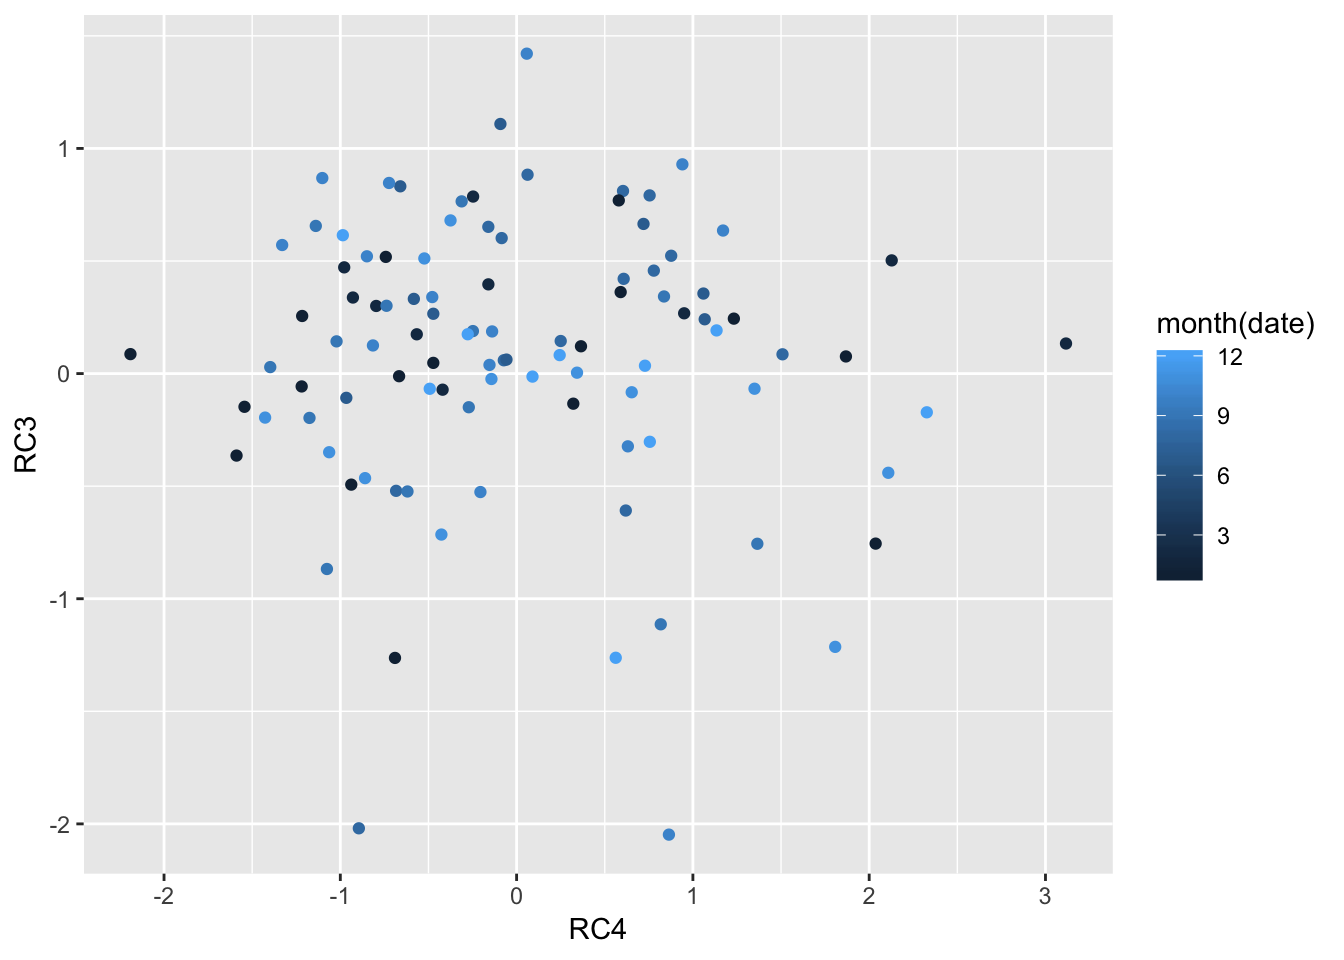
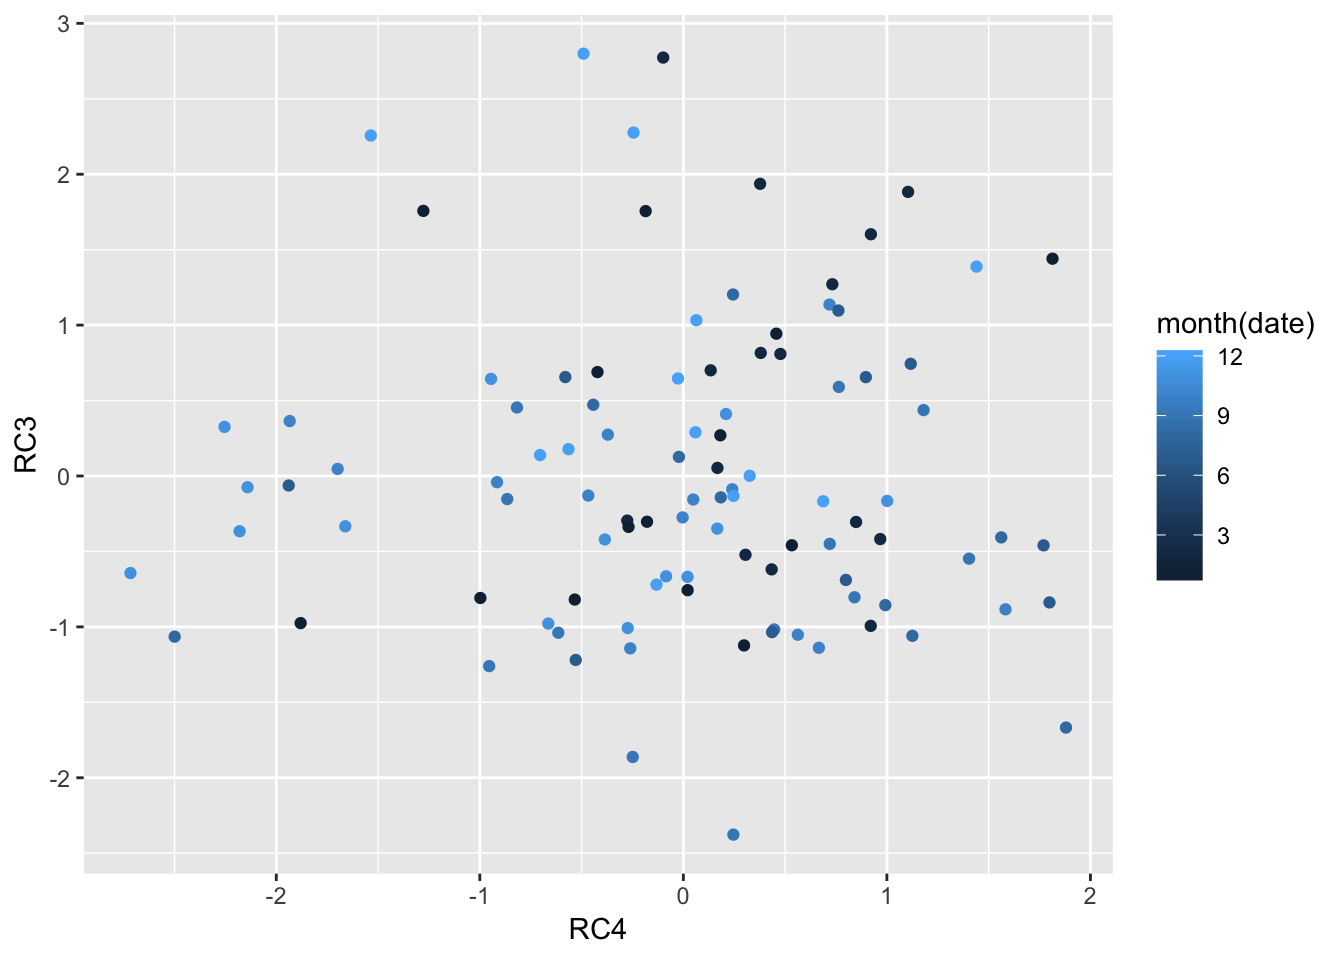
again

diff --git a/_book/dimension-reduction.html b/_book/dimension-reduction.html
@@ -33,7 +33,7 @@
   
   
 <link rel="prev" href="multiple-regression.html">
-<link rel="next" href="cluster-analysis-1.html">
+<link rel="next" href="cluster-analysis.html">
 <script src="libs/jquery-2.2.3/jquery.min.js"></script>
 <link href="libs/gitbook-2.6.7/css/style.css" rel="stylesheet" />
 <link href="libs/gitbook-2.6.7/css/plugin-table.css" rel="stylesheet" />
@@ -104,11 +104,7 @@ code > span.in { color: #60a0b0; font-weight: bold; font-style: italic; } /* Inf
 <li><a href="./">CUA Final Project</a></li>
 
 <li class="divider"></li>
-<li class="chapter" data-level="1" data-path="methods-of-analysis.html"><a href="methods-of-analysis.html"><i class="fa fa-check"></i><b>1</b> Methods of Analysis</a><ul>
-<li class="chapter" data-level="" data-path="methods-of-analysis.html"><a href="methods-of-analysis.html#regression-and-correlation"><i class="fa fa-check"></i>Regression and Correlation</a></li>
-<li class="chapter" data-level="" data-path="methods-of-analysis.html"><a href="methods-of-analysis.html#multidimensional-scaling-mds-factor-analysis"><i class="fa fa-check"></i>Multidimensional Scaling (MDS) &amp; Factor Analysis</a></li>
-<li class="chapter" data-level="" data-path="methods-of-analysis.html"><a href="methods-of-analysis.html#cluster-analysis"><i class="fa fa-check"></i>Cluster Analysis</a></li>
-</ul></li>
+<li class="chapter" data-level="1" data-path="methods-of-analysis.html"><a href="methods-of-analysis.html"><i class="fa fa-check"></i><b>1</b> Methods of Analysis</a></li>
 <li class="chapter" data-level="2" data-path="data-tidying.html"><a href="data-tidying.html"><i class="fa fa-check"></i><b>2</b> Data Tidying</a></li>
 <li class="chapter" data-level="3" data-path="multiple-regression.html"><a href="multiple-regression.html"><i class="fa fa-check"></i><b>3</b> Multiple Regression</a></li>
 <li class="chapter" data-level="4" data-path="dimension-reduction.html"><a href="dimension-reduction.html"><i class="fa fa-check"></i><b>4</b> Dimension Reduction</a><ul>
@@ -123,7 +119,7 @@ code > span.in { color: #60a0b0; font-weight: bold; font-style: italic; } /* Inf
 </ul></li>
 <li class="chapter" data-level="4.3" data-path="dimension-reduction.html"><a href="dimension-reduction.html#data-analysis-1"><i class="fa fa-check"></i><b>4.3</b> Data Analysis</a></li>
 </ul></li>
-<li class="chapter" data-level="5" data-path="cluster-analysis-1.html"><a href="cluster-analysis-1.html"><i class="fa fa-check"></i><b>5</b> Cluster Analysis</a></li>
+<li class="chapter" data-level="5" data-path="cluster-analysis.html"><a href="cluster-analysis.html"><i class="fa fa-check"></i><b>5</b> Cluster Analysis</a></li>
 <li class="chapter" data-level="6" data-path="future-studies-conclusion.html"><a href="future-studies-conclusion.html"><i class="fa fa-check"></i><b>6</b> Future Studies &amp; Conclusion</a></li>
 <li class="divider"></li>
 <li><a href="https://github.com/rstudio/bookdown" target="blank">Published with bookdown</a></li>
@@ -219,32 +215,32 @@ fa_daily_stats</code></pre></div>
 <pre><code>## Principal Components Analysis
 ## Call: principal(r = ., nfactors = 4, rotate = &quot;varimax&quot;)
 ## Standardized loadings (pattern matrix) based upon correlation matrix
-##                        RC1   RC2   RC3   RC4   h2     u2 com
-## daily_rainfall_mm     0.97 -0.13 -0.09  0.01 0.96 0.0359 1.1
-## 30min_rainfall_mm     0.98 -0.11 -0.07 -0.01 0.99 0.0145 1.0
-## 60min_rainfall_mm     0.98 -0.10 -0.07  0.00 0.98 0.0190 1.0
-## 120min_rainfall_mm    0.91  0.07 -0.35  0.00 0.96 0.0359 1.3
-## temp_mean_daily      -0.31  0.80  0.15 -0.04 0.76 0.2427 1.4
-## temp_daily_max       -0.10  0.28  0.85 -0.08 0.81 0.1868 1.3
-## temp_daily_min       -0.25 -0.11  0.87  0.08 0.84 0.1641 1.2
-## daily_tfc             0.00  0.00  0.00  1.00 0.99 0.0065 1.0
-## daily_wind_speed     -0.19  0.91 -0.20  0.08 0.90 0.0951 1.2
-## daily_max_wind_speed  0.22  0.64  0.20 -0.03 0.50 0.5036 1.5
+##                        RC1   RC4  RC2   RC3   h2     u2 com
+## daily_rainfall_mm     0.97 -0.18 0.00  0.00 0.98 0.0178 1.1
+## 30min_rainfall_mm     0.97 -0.19 0.00 -0.01 0.98 0.0177 1.1
+## 60min_rainfall_mm     0.98 -0.18 0.00 -0.01 0.99 0.0097 1.1
+## 120min_rainfall_mm    0.98 -0.18 0.00  0.00 0.99 0.0149 1.1
+## temp_mean_daily      -0.31  0.88 0.17 -0.02 0.90 0.1034 1.3
+## temp_daily_max       -0.02  0.86 0.04  0.10 0.75 0.2505 1.0
+## temp_daily_min       -0.49  0.72 0.15 -0.06 0.78 0.2204 1.9
+## daily_tfc            -0.01  0.05 0.06  0.99 0.99 0.0058 1.0
+## daily_wind_speed     -0.26  0.46 0.72  0.08 0.81 0.1949 2.0
+## daily_max_wind_speed  0.16  0.02 0.92  0.02 0.88 0.1210 1.1
 ## 
-##                        RC1  RC2  RC3  RC4
-## SS loadings           3.96 2.00 1.72 1.02
-## Proportion Var        0.40 0.20 0.17 0.10
-## Cumulative Var        0.40 0.60 0.77 0.87
-## Proportion Explained  0.46 0.23 0.20 0.12
-## Cumulative Proportion 0.46 0.68 0.88 1.00
+##                        RC1  RC4  RC2  RC3
+## SS loadings           4.23 2.37 1.43 1.01
+## Proportion Var        0.42 0.24 0.14 0.10
+## Cumulative Var        0.42 0.66 0.80 0.90
+## Proportion Explained  0.47 0.26 0.16 0.11
+## Cumulative Proportion 0.47 0.73 0.89 1.00
 ## 
-## Mean item complexity =  1.2
+## Mean item complexity =  1.3
 ## Test of the hypothesis that 4 components are sufficient.
 ## 
-## The root mean square of the residuals (RMSR) is  0.06 
-##  with the empirical chi square  32.56  with prob &lt;  0.00062 
+## The root mean square of the residuals (RMSR) is  0.05 
+##  with the empirical chi square  19.33  with prob &lt;  0.055 
 ## 
-## Fit based upon off diagonal values = 0.98</code></pre>
+## Fit based upon off diagonal values = 0.99</code></pre>
 <div class="sourceCode"><pre class="sourceCode r"><code class="sourceCode r">fa_daily_stats[[<span class="st">&#39;loadings&#39;</span>]] <span class="op">%&gt;%</span><span class="st"> </span>
 <span class="st">  </span><span class="kw">unclass</span>() <span class="op">%&gt;%</span><span class="st"> </span>
 <span class="st">  </span><span class="kw">as_tibble</span>(<span class="dt">rownames =</span> <span class="st">&quot;date&quot;</span>) <span class="op">%&gt;%</span>
@@ -257,7 +253,6 @@ fa_daily_stats</code></pre></div>
 <span class="st">  </span><span class="kw">unclass</span>() <span class="op">%&gt;%</span><span class="st"> </span>
 <span class="st">  </span><span class="kw">as_tibble</span>(<span class="dt">rownames =</span> <span class="st">&quot;date&quot;</span>) <span class="op">%&gt;%</span>
 <span class="st">  </span><span class="kw">ggplot</span>(<span class="kw">aes</span>(<span class="dt">x =</span> RC4, <span class="dt">y =</span> RC3)) <span class="op">+</span><span class="st"> </span><span class="kw">geom_point</span>(<span class="kw">aes</span>(<span class="dt">colour =</span> <span class="kw">month</span>(date)))</code></pre></div>
-<pre><code>## Warning: Removed 1 rows containing missing values (geom_point).</code></pre>
 <p><img src="bookdown-demo_files/figure-html/unnamed-chunk-15-1.png" width="672" /></p>
 </div>
 <div id="hourly-traffic-weather-data-1" class="section level3 unnumbered">
@@ -272,32 +267,32 @@ fa_hourly_stats</code></pre></div>
 <pre><code>## Principal Components Analysis
 ## Call: principal(r = ., nfactors = 4, rotate = &quot;varimax&quot;)
 ## Standardized loadings (pattern matrix) based upon correlation matrix
-##               RC1   RC2   RC3   RC4   h2     u2 com
-## temp         0.98 -0.02 -0.04  0.06 0.97 0.0309 1.0
-## temp_min     0.93  0.02 -0.06  0.04 0.88 0.1212 1.0
-## temp_max     0.95 -0.04 -0.03  0.07 0.91 0.0896 1.0
-## pressure    -0.38  0.55  0.01 -0.10 0.45 0.5476 1.9
-## humidity    -0.89  0.05 -0.02 -0.04 0.80 0.1993 1.0
-## wind_speed   0.76  0.05 -0.05  0.04 0.59 0.4100 1.0
-## wind_deg     0.11 -0.09  0.08  0.99 1.00 0.0025 1.1
-## rainfall_mm -0.07  0.04  0.99  0.08 1.00 0.0018 1.0
-## total_tfc   -0.02  0.92  0.07  0.01 0.85 0.1526 1.0
-## hour         0.24  0.85 -0.02 -0.05 0.78 0.2163 1.2
+##               RC1   RC2   RC3   RC4   h2    u2 com
+## temp         0.98  0.01 -0.02 -0.08 0.96 0.039 1.0
+## temp_min     0.94 -0.02 -0.06 -0.04 0.89 0.115 1.0
+## temp_max     0.95  0.00 -0.01 -0.11 0.92 0.080 1.0
+## pressure     0.01 -0.08 -0.58  0.59 0.69 0.308 2.0
+## humidity    -0.89 -0.08  0.10 -0.01 0.81 0.192 1.0
+## wind_speed   0.64 -0.09  0.24  0.10 0.48 0.518 1.4
+## wind_deg     0.01 -0.08  0.88  0.13 0.80 0.203 1.1
+## rainfall_mm -0.06  0.14  0.15  0.82 0.72 0.277 1.1
+## total_tfc    0.01  0.94  0.02  0.14 0.90 0.102 1.0
+## hour        -0.02  0.94 -0.08 -0.02 0.90 0.102 1.0
 ## 
 ##                        RC1  RC2  RC3  RC4
-## SS loadings           4.34 1.88 1.01 1.00
-## Proportion Var        0.43 0.19 0.10 0.10
-## Cumulative Var        0.43 0.62 0.72 0.82
-## Proportion Explained  0.53 0.23 0.12 0.12
-## Cumulative Proportion 0.53 0.76 0.88 1.00
+## SS loadings           3.94 1.82 1.21 1.09
+## Proportion Var        0.39 0.18 0.12 0.11
+## Cumulative Var        0.39 0.58 0.70 0.81
+## Proportion Explained  0.49 0.23 0.15 0.14
+## Cumulative Proportion 0.49 0.71 0.86 1.00
 ## 
-## Mean item complexity =  1.1
+## Mean item complexity =  1.2
 ## Test of the hypothesis that 4 components are sufficient.
 ## 
-## The root mean square of the residuals (RMSR) is  0.05 
-##  with the empirical chi square  25.97  with prob &lt;  0.0066 
+## The root mean square of the residuals (RMSR) is  0.08 
+##  with the empirical chi square  57.5  with prob &lt;  2.7e-08 
 ## 
-## Fit based upon off diagonal values = 0.98</code></pre>
+## Fit based upon off diagonal values = 0.96</code></pre>
 <div class="sourceCode"><pre class="sourceCode r"><code class="sourceCode r">fa_hourly_stats[[<span class="st">&#39;loadings&#39;</span>]] <span class="op">%&gt;%</span><span class="st"> </span>
 <span class="st">  </span><span class="kw">unclass</span>() <span class="op">%&gt;%</span><span class="st"> </span>
 <span class="st">  </span><span class="kw">as_tibble</span>(<span class="dt">rownames =</span> <span class="st">&quot;local_time&quot;</span>) <span class="op">%&gt;%</span>
@@ -327,7 +322,7 @@ fa_hourly_stats</code></pre></div>
         </div>
       </div>
 <a href="multiple-regression.html" class="navigation navigation-prev " aria-label="Previous page"><i class="fa fa-angle-left"></i></a>
-<a href="cluster-analysis-1.html" class="navigation navigation-next " aria-label="Next page"><i class="fa fa-angle-right"></i></a>
+<a href="cluster-analysis.html" class="navigation navigation-next " aria-label="Next page"><i class="fa fa-angle-right"></i></a>
     </div>
   </div>
 <script src="libs/gitbook-2.6.7/js/app.min.js"></script>
@@ -357,7 +352,7 @@ gitbook.start({
 "size": 2
 },
 "edit": {
-"link": "https://github.com/rstudio/bookdown-demo/edit/master/04-MDS.Rmd",
+"link": "https://github.com/rstudio/bookdown-demo/edit/master/04-dimension-reduction.Rmd",
 "text": "Edit"
 },
 "history": {
